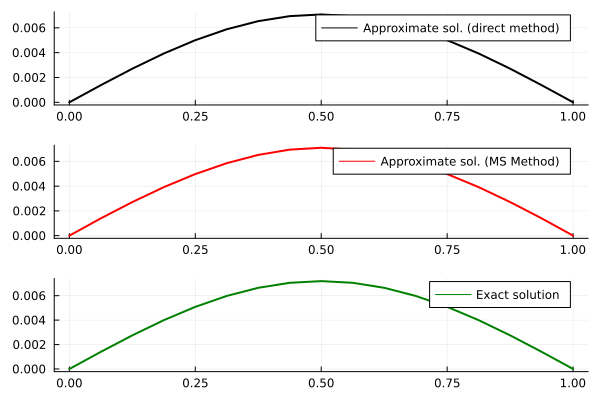
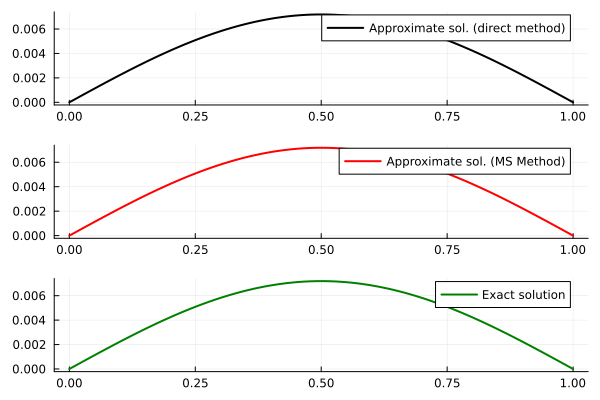
Update README.md with the rate of convergence plots

diff --git a/README.md b/README.md
@@ -61,7 +61,7 @@ where $\epsilon = 2^{-12}$ denotes the scale of the randomness, i.e, the diffusi
 
 ### Heat equation in 1D
 
-The script `HigherOrderMS/1d_heat_eqn.jl` contains the code to solve the transient heat equation in 1D. The spatial part is handled using the finite element method (both traditional and multiscale) and the temporal part is discretized using the fourth order explicit Runge Kutta (RK4) method. The method is conditionally stable and a small time step is required to avoid instability. I use $h = 2^{-11}$ on the fine scale and $H=2^{-1}$ on the coarse scale. I set the oscillatory coefficient $D_{\varepsilon}(x)$ equal to
+The script `HigherOrderMS/1d_heat_eqn.jl` contains the code to solve the transient heat equation in 1D. The spatial part is handled using the finite element method (both traditional and multiscale) and the temporal part is discretized using the fourth order backward difference formula (BDF4). I use $h = 2^{-11}$ on the fine scale and $H=2^{-1}$ on the coarse scale. I set the oscillatory coefficient $D_{\varepsilon}(x)$ equal to
 
 $$
 D_{\varepsilon}(x) = \left(2 + \cos{\frac{2\pi x}{2^{-2}}}\right)^{-1}
@@ -73,35 +73,20 @@ $$
 D_{\varepsilon}(x) = D_0 = 0.5
 $$
 
-In both cases, the right hand side $f(x,t) = 0$ and the initial condition $u_0(x) = \sin{\pi x}$. In the constant diffusion case, the exact solution can be obtained analytically and is equal to $u(x,t) = \exp{\left(-D_0 \pi^2 t\right)}u_0(x)$. This example can be used to study the convergence of the method. Following figure shows the solution obtained using the multiscale method.
+In both cases, the right hand side $f(x,t) = 0$ and the initial condition $u_0(x) = \sin{\pi x}$. In the constant diffusion case, the exact solution can be obtained analytically and is equal to $u(x,t) = \exp{\left(-D_0 \pi^2 t\right)}u_0(x)$. This example can be used to study the convergence of the method. Following figure shows the solution obtained using the multiscale method.  
 
 | Smooth Diffusion Term | Oscillatory Diffusion Term |
 | --- | --- |
-| ![Smooth Diffusion Coefficient](./HigherOrderMS/Images/heat_eq_smooth.png) | ![Smooth Diffusion Coefficient](./HigherOrderMS/Images/heat_eq_oscillatory.png) |
+| ![Smooth Diffusion Coefficient](./HigherOrderMS/Images/heat_eq_all.png) | ![Smooth Diffusion Coefficient](./HigherOrderMS/Images/heat_eq_all_osc.png) |
 
-**The main advantage of the multiscale method is that it provides an increase in computational efficiency.** This is because: 
 
-1) The linear system (on the coarse space) obtained after computing the multiscale basis is much smaller than the linear system obtained using the traditional method (on the fine space). Comparing the time taken to solve 100 iterations in the time marching step, we see that the multiscale method takes less time to complete the iterations. 
+**The main advantage of the multiscale method is that it provides an increase in computational efficiency.** This is because the linear system (on the coarse space) obtained after computing the multiscale basis is much smaller than the linear system obtained using the traditional method (on the fine space). Comparing the time taken to solve 10000 iterations in the time marching step, we see that the multiscale method takes less time to complete the iterations. 
 
 ``` julia
-  # nf = 2^11, nc = 2^1, Δt = 1e-4
-  Running some benchmarks for 100 iterations...
-  Direct Method takes:   296.866 ms (38800 allocations: 610.24 MiB)
-  Multiscale Method takes:   138.934 ms (36700 allocations: 222.56 MiB)
-
-  # nf = 2^4, nc = 2^1, Δt = 1e-4
-  Running some benchmarks for 100 iterations...
-  Direct Method takes:   6.400 ms (35600 allocations: 6.54 MiB)
-  Multiscale Method takes:   2.526 ms (35900 allocations: 4.37 MiB)
+  # nf = 2^11, nc = 2^4, Δt = 1e-4, tf = 1.0
+  Direct Method takes:   10.260 s (1559011 allocations: 25.42 GiB)
+  Multiscale Method takes:   6.102 s (6621011 allocations: 6.63 GiB)
 ```
-
-2) Plus the CFL condition demands that the time step $\Delta t \lessapprox (\Delta x)^\alpha$ where $\Delta x$ is the spatial mesh size. For the multiscale method, since $H \gg h$, the CFL condition is much less strict compared to the traditional method. Thus we can compute the solution using much bigger time steps, while still capturing the small scale effects, resulting in a much more efficient method. 
-
-<!-- Moreover, the traditional RK4-finite element method has a stability criterion that the time step $\Delta t \propto h^2$. This means applying the traditional method on fine meshes leads to an unstable method, if $\Delta t$ is chosen too large. However, the time step requirements for the RK4-multiscale method is much less strict as $\Delta t \propto H^2$. This can be seen when the problem is run with $h=2^{-11}$ where the traditional method fails, whereas the multiscale method gives a result that is close to the exact solution. Following plot summarizes the result.
-
-| $h=2^{-4}$, $H=2^{-1}$ and $ \Delta t = 10^{-4}$ | $h=2^{-11}$, $H=2^{-1}$ and $ \Delta t = 10^{-4}$ |
-| --- | --- |
-| ![All](./HigherOrderMS/Images/heat_eq_all.png) | ![Two](./HigherOrderMS/Images/heat_eq_two.png) |  -->
 
 ### Wave equation in 1D
 
@@ -151,7 +136,7 @@ This is in line with the observation made in Maier, R., 2021. Similar observatio
 ![](./HigherOrderMS/Images/ooc_2.png) |
 --- |
 
-After eliminating the KDTree search, we can solve the problem upto the coarse-mesh size $H = 2^0, 2^{-1}, \cdots, 2^{-12}$ with the fine scale at $h=2^{-16}$. However, the method does not show convergence for very fine coarse-meshes unless the localization parameter is chosen high enough.
+We can solve the problem upto the coarse-mesh size $H = 2^0, 2^{-1}, \cdots, 2^{-12}$ with the fine scale at $h=2^{-16}$. However, the method does not show convergence for very fine coarse-meshes unless the localization parameter is chosen high enough.
 
 ![](./HigherOrderMS/Images/ooc_5.png) |
 --- |
@@ -164,6 +149,35 @@ Finally we can observe the same behaviour for the other choices of diffusion coe
 Oscillatory coefficient | Random coefficients |
 --- | --- |
 ![](./HigherOrderMS/Images/ooc_6_oscillatory.png) | ![](./HigherOrderMS/Images/ooc_7_random_coeff.png) | 
+
+#### Time dependent problems
+-------
+
+Similar results can be seen in the time dependent case. I solve the following parabolic initial boundary value problem using the multiscale method `(HigherOrderMS/rate_of_convergence_eg4jl)`.
+
+$$
+\begin{align*}
+  u_t - (A(x)u'(x,t))' = 0 &\quad (x,t) \in (0,1) \times (0,T),\\
+  u(x,0) = \sin(\pi x) &\quad x \in (0,1),\\
+  u(0,t) = u(1,t) =0 &\quad t \in (0,T),
+\end{align*}
+$$
+
+I take $h = 2^{-15}$ and $H = 2^0, 2^{-1}, \cdots, 2^{-7}$. In the temporal direction, I set $\Delta t = 10^{-5}$ and solve till final time $T = 500 \Delta t$ (500 steps). I use the fourth order backward difference formula for discretizing the temporal part. The exact solution was taken to be the standard finite element solution on a mesh whose size is $h$. I compute the rate of convergence for the smooth diffusion coefficient 
+
+$$
+A(x) = 0.5,
+$$
+
+and the oscillatory coefficient
+
+$$
+A(x) = \left(2 + \cos{\frac{2\pi x}{2^{-6}}}\right)^{-1} .
+$$
+
+Constant coefficient | Oscillatory coefficient |
+--- | --- |
+![](./HigherOrderMS/Images/ooc_8_heat_eq.png) | ![](./HigherOrderMS/Images/ooc_9_heat_eq_osc.png)
 
 ## Localized Orthogonal Decomposition Method
 -------
